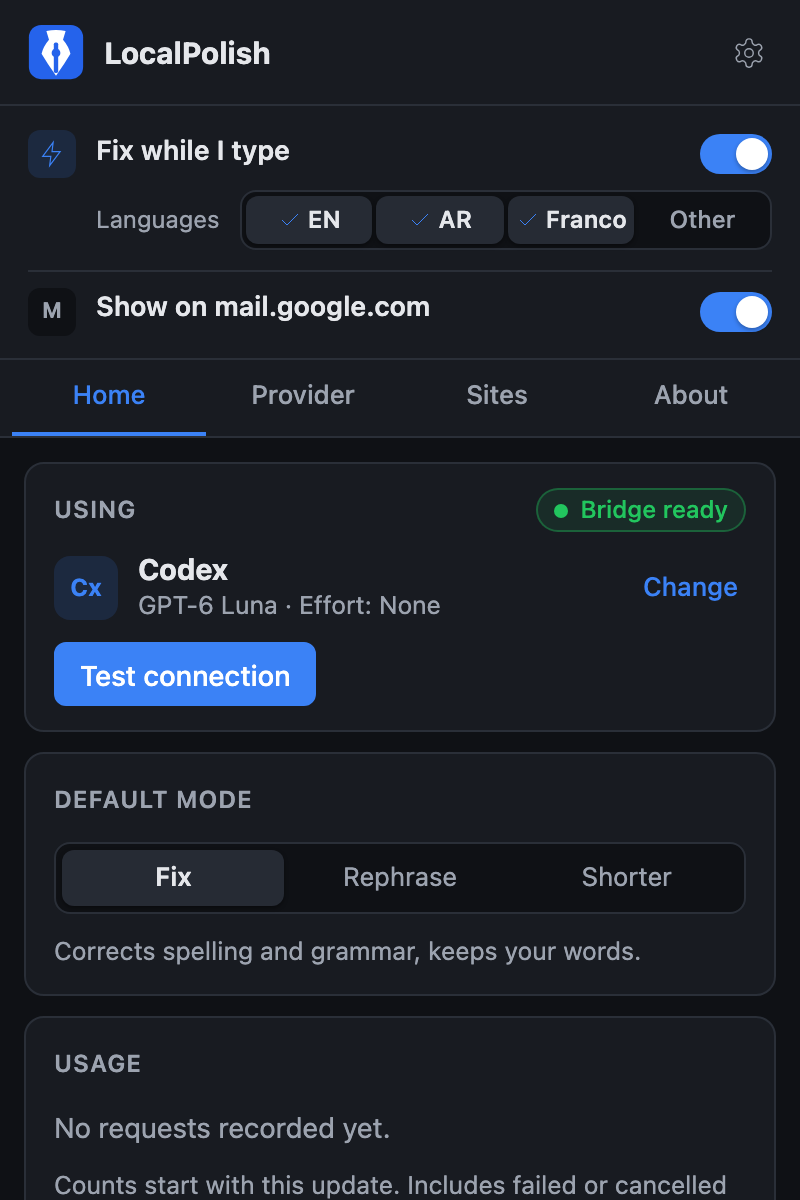
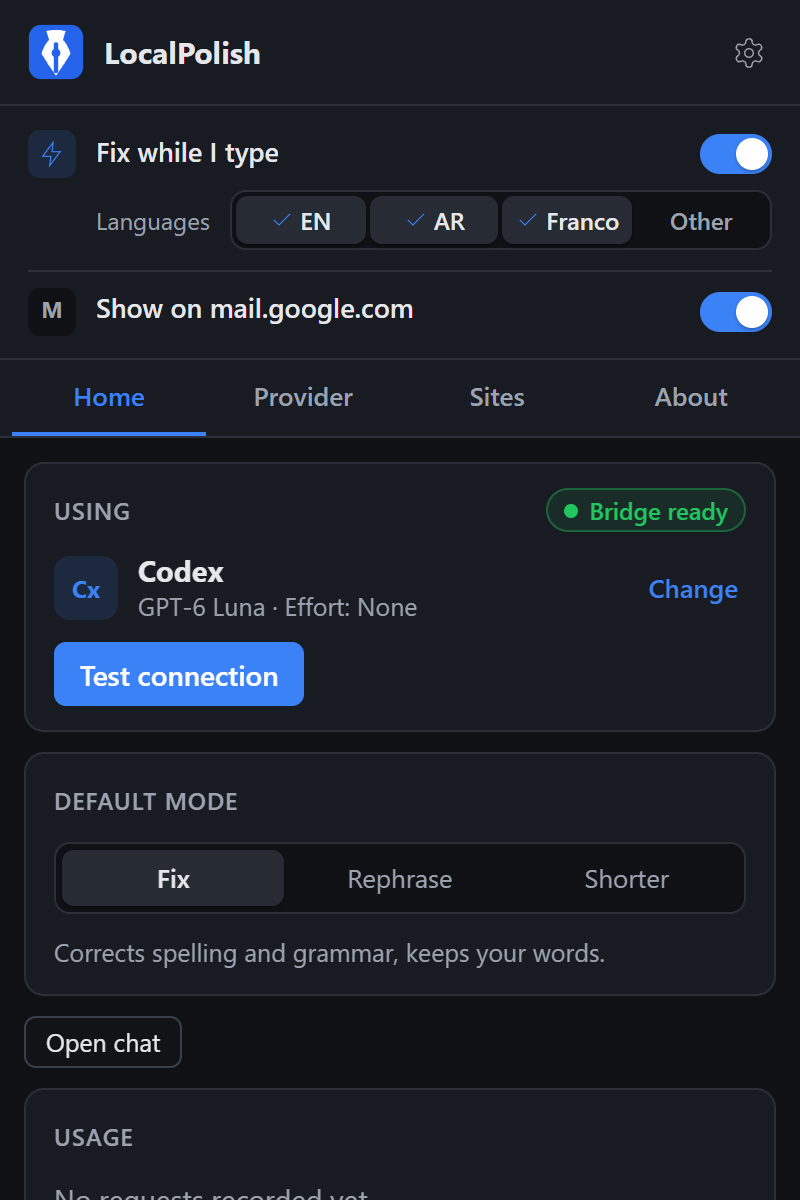
docs: finish chat insertion guide and browser flow

diff --git a/tests/e2e/chat.spec.ts b/tests/e2e/chat.spec.ts
@@ -868,6 +868,44 @@ for (const type of ['password', 'text'] as const) {
   });
 }
 
+test('selects an article, asks the mock provider, then copies and inserts its answer', async ({
+  page,
+  extensionContext,
+  sw,
+  mock,
+}) => {
+  await guardProviders(sw, mock.url);
+  const article = await extensionContext.newPage();
+  try {
+    await openPanel(page);
+    await article.goto('http://localhost:5179/');
+    const field = article.locator('#ta');
+    await field.fill('');
+    await articleSelection(article, 'The fixture shop opens on Monday.');
+    await chatSparkle(article).click();
+    const attachment = page.getByRole('region', { name: 'Attached' });
+    await expect(attachment).toContainText('The fixture shop opens on Monday.');
+    await expect(attachment).toContainText('http://localhost:5179/');
+    expect(mock.requests).toHaveLength(0);
+
+    mock.reply({ chunks: ['A fixture reply.\n', 'Another line.'] });
+    await page.getByRole('button', { name: 'Draft a reply' }).click();
+    await expect(answers(page)).toContainText(/A fixture reply\.\s*Another line\./);
+    await answers(page).getByRole('button', { name: 'Copy', exact: true }).click();
+    await expect(answers(page).getByRole('button', { name: 'Copied' })).toBeVisible();
+    expect(await page.evaluate(() => (window as unknown as { __copied?: string }).__copied)).toBe(
+      'A fixture reply.\nAnother line.',
+    );
+    await insertFromPanel(page, article);
+    await expect(field).toHaveValue('A fixture reply.\nAnother line.');
+    await expect(page.getByRole('status')).toContainText('Inserted into the text field.');
+    expect(await blockedAttempts(sw)).toEqual([]);
+  } finally {
+    await article.close();
+    await releaseProviders(sw);
+  }
+});
+
 async function insertFromPanel(panel: Page, article: Page): Promise<void> {
   // The real panel leaves its page tab active. A test panel tab needs this explicitly.
   await article.bringToFront();

diff --git a/docs/plans/features-1.3-1.4.md b/docs/plans/features-1.3-1.4.md
@@ -1,6 +1,6 @@
 # LocalPolish 1.3.0 and 1.4.0 feature plan
 
-Status: 1.3.0 released on 22 October 2026 (T21a, T21c, T21d, T22a-d, T24). OpenCode moved to the backlog. 1.4.0 started on 22 October 2026 (T23, chat). The version stays 1.3.0 until release day. The owner requested a stop after T23e for a move to another machine.
+Status: 1.3.0 released on 22 October 2026 (T21a, T21c, T21d, T22a-d, T24). OpenCode moved to the backlog. 1.4.0 started on 22 October 2026 (T23, chat). The owner resumed on Windows after T23e; insertion and final chat documentation follow below. The version stays 1.3.0 until release day.
 Baseline: `v1.2.0`, commit `a4ba7fc`.
 Owner answers: the grill session on 22 October 2026. Each decision below is the owner's pick unless it says "default (Claude)".
 
@@ -159,11 +159,12 @@ If the Antigravity spike fails, 1.3.0 ships without it, and Antigravity moves to
   - The worker accepts insertion only from this extension's side panel, validates the window-scoped sequence and original active tab/focused window, and routes only to the bound frame. The content script rejects stale sequences, edited/removed/unsupported fields and navigated frames. `applyReplacement` has an optional current-target check after focus and rich-editor waits. History and New chat drop the live entry association.
   - Review fixed extension-tab sender validation, unclear frame-navigation errors, and field identity generation on insecure HTTP pages. Removed a content test that mocked insertion itself; browser tests exercise the real path. Fourteen new mock-only browser cases cover text/rich/iframe insertion, toolbar iframe insertion, insecure HTTP, edits, removed/disabled/readonly/password fields, navigation, frame navigation, changed tabs and reopened history.
   - Full gates passed on Windows on 22 October 2026: lint, typecheck, 811 unit tests with 9 platform skips, formatting, build, and 244 browser tests. Playwright Chromium still fails before launch with a Windows side-by-side assembly error after reinstall. A temporary external hook ran the browser checks with installed Brave 155.1.97.59 and removed the Mac-only single-process launch flag; repository browser settings are unchanged. The actual 400 px chat page was visually checked after a successful Insert. No real or paid provider was used. Comment Sicko was unavailable because this session has no named reviewer tool. No reusable skill was proposed or created.
-- [ ] **T23g. Chat docs and e2e.** Depends on: T23e, T23f. README, `PRIVACY.md`, and the manual checklist were updated through T23e for the machine handoff. After T23f, document Insert and add the combined selection → chat → mock answer → Copy and Insert test. Recheck all chat docs against the final behavior.
+- [x] **T23g. Chat docs and e2e.** Depends on: T23e, T23f. Brief: [T23g-chat-docs-e2e.md](../briefs/T23g-chat-docs-e2e.md). README, privacy policy, changelog, manual checklist, release checklist, plan index, and machine handoff describe Insert and its refusal paths. The combined browser test selects fake article text, gets a multiline mock answer, checks Copy, and inserts it into an empty textarea.
+  - Documentation and test reviews passed. Local documentation links resolve. Full gates passed on Windows on 22 October 2026: lint, typecheck, 811 unit tests with 9 platform skips, formatting, build, and 245 browser tests through the same temporary Brave hook as T23f. All five toolbar screenshots were regenerated and visually checked, including the new chat button in light and dark modes. The screenshot fixture now supplies a tab and window id so the button is enabled. Comment Sicko remains unavailable. No real provider was called and no reusable skill was created.
 
 ## 1.4.0 release (T25)
 
-- [ ] **T25. Release 1.4.0.** Follow `RELEASING.md`. New toolbar screenshots, because the popup gains a chat button. The owner hand-checks the chat on a long article, with a CLI provider and an API provider.
+- [ ] **T25. Release 1.4.0.** Follow `RELEASING.md`. Toolbar screenshots were refreshed and checked in T23g. The owner still hand-checks native entry points and insertion, and chat on a long article with a CLI provider and an API provider. CI must pass before release.
 
 ## Backlog
 
@@ -179,10 +180,10 @@ If the Antigravity spike fails, 1.3.0 ships without it, and Antigravity moves to
 
 ## Handoff
 
-- Checkpoint: the T23e task commit containing this file, on `main`; parent `7f9d13f` is T23d. Use `git log -1 --oneline` for the exact checkpoint hash. Version remains 1.3.0; no 1.4.0 tag, zip, or release was created.
-- Completed chat tasks: T23a, T23b, T23c, T23d, T23e. Earlier 1.3.0 work remains released at [v1.3.0](https://github.com/ashahinL/localpolish/releases/tag/v1.3.0). OpenCode stays in the backlog.
-- Verification: all full T23e gates passed on 22 October 2026: lint, typecheck, 806 unit tests passed with 2 skipped, formatting, build, and 230 e2e tests. The 77 targeted browser cases passed too, including both password-cache regressions. Code, test, and documentation reviews passed. Local documentation links were checked. Comment Sicko was skipped because this session cannot launch that named reviewer. No real provider or installed CLI was called.
-- Remaining: T23f insertion; T23g's Insert documentation and combined end-to-end test; T25's screenshots, native gesture checks, owner CLI/API checks, and release. The paid language-preservation bench and Windows agy login remain unverified from earlier work.
-- Stop instruction: the owner explicitly requested commit/push/stop after T23e. Do not start T23f in this chat. Resume on the other machine only when the owner asks. Follow [the machine handoff](../handoff-1.4.md).
+- Checkpoint: `b58f7fe` implements T23f; T23g follows in its own commit. Use `git log -1 --oneline` for the exact checkpoint hash. Version remains 1.3.0; no 1.4.0 tag, zip, or release was created.
+- Completed chat tasks: T23a–g. Earlier 1.3.0 work remains released at [v1.3.0](https://github.com/ashahinL/localpolish/releases/tag/v1.3.0). OpenCode stays in the backlog.
+- Verification: full Windows gates passed as recorded in T23g. Code, test, and documentation reviews used the guard skills. Comment Sicko was skipped because this session cannot launch that named reviewer. No real provider or installed CLI was called.
+- Remaining: T25's native gesture checks, owner CLI/API checks, and release. The existing runtime-smoke CI failure needs its missing compiled module restored first. The paid language-preservation bench and Windows agy login remain unverified from earlier work.
+- Resume instruction: the owner asked to pull and continue on Windows. Follow [the machine handoff](../handoff-1.4.md). Stop at release checks that require the owner.
 - Required gates on future code changes: `npm run lint`, `npm run typecheck`, `npm test`, `npx prettier --check .`, `npm run build`, `npm run test:e2e`.
 - Active processes: none. The final gates finished; no delegate, development server, visual browser, or mock server remains running. Temporary Mac harnesses are supplementary and are not needed to resume.

diff --git a/docs/handoff-1.4.md b/docs/handoff-1.4.md
@@ -1,12 +1,14 @@
-# Continue 1.4 on another machine
+# Continue the 1.4 release checks
 
-The owner stopped work after T23e on 22 October 2026. Do not start the next task until asked. The checkpoint is the T23e commit on `main`, with parent `7f9d13f`. Run `git log -1 --oneline` after pulling to identify it. The package is still version 1.3.0. No 1.4.0 release exists.
+The owner resumed work on Windows after T23e on 22 October 2026. T23f adds insertion and T23g finishes the chat documentation and combined browser flow. Run `git log -1 --oneline` after pulling to identify the current checkpoint. The package is still version 1.3.0. No 1.4.0 release exists.
 
 ## What is done
 
-T23a–e are implemented and reviewed: side-panel gesture spike, multi-turn providers, local history, chat UI/runtime, and all four entry points. The source build has Copy. It does not insert chat answers into fields yet. The [feature plan](plans/features-1.3-1.4.md) contains the task details and final gate results.
+T23a–g implement the side-panel gesture spike, multi-turn providers, local history, chat UI/runtime, all four entry points, Copy, and Insert into the remembered field. The [feature plan](plans/features-1.3-1.4.md) contains task details and gate results.
 
 Review fixed password selection caching, failed chat-settings saves, stale settings reads, unsafe Markdown nesting, and repeated scans of unmatched markers. Tests use fake text and mock providers. The final production native context-menu and physical shortcut checks remain in the manual release pass; the disposable spike already proved the gesture routes. T23d's real-panel rendering and saved history were inspected on the Mac.
+
+Insert binds the last focused supported field when a page entry opens chat. It replaces the whole field through `applyReplacement`. A changed or unavailable field, navigated frame, or inactive tab refuses insertion and keeps Copy available. Reopened history and chats started with New chat have no live target. Snapshot text stays inside content-script memory. Session storage holds only field identity and tab/frame ownership alongside the pending attachment.
 
 ## Set up the new machine
 
@@ -17,14 +19,14 @@ Review fixed password selection caching, failed chat-settings saves, stale setti
 
 ## Resume point
 
-Next is **T23f**, insertion into the last text field, using the existing `applyReplacement` path. T23e records an entry's tab/frame under window-scoped session storage; `readChatTarget(sequence)` is the helper prepared for insertion. Recheck active tab, frame, field ownership, and changed or removed targets before writing. Do not infer the target from a rendered data attribute.
+Next is **T25**, the release checks. A pre-existing CI runtime-smoke failure was reproduced: `bench/runtime/compile.mjs` omits `src/background/outputBudget`, so every core probe fails during import. Fix and verify that prerequisite before release. Keep task changes in separate commits.
 
-Then complete **T23g**. The current README, privacy policy, manual checklist, changelog and release instructions already cover T23a–e. Add Insert behavior and the combined selection-to-chat-to-mock-answer-to-Copy-and-Insert browser test. Keep T23g unchecked until that work is complete.
+The README, privacy policy, manual checklist, changelog, release instructions, and plan index now describe Insert. The combined browser test selects fake article text, asks a local mock provider, copies its multiline answer, and inserts it into an empty textarea.
 
-**T25** remains separate. Refresh screenshots, perform native gesture and long-article checks with CLI and API providers, and follow [RELEASING.md](../RELEASING.md). The owner still needs to schedule the paid language-preservation benchmark and Windows Antigravity login check.
+The five toolbar screenshots were refreshed and visually checked in T23g. Perform native gesture and long-article checks with CLI and API providers, and follow [RELEASING.md](../RELEASING.md). The owner still needs to schedule the paid language-preservation benchmark and Windows Antigravity login check. Do not call paid providers to bypass a test failure.
 
 ## Checks and processes
 
-Run lint, typecheck, unit tests, formatting, build, and the full browser suite before committing a future code task. Exact commands and the checkpoint results are in the feature plan. A sandbox may block browser launch; report that and run browser checks from an unrestricted terminal. Do not weaken tests or use paid providers as a workaround.
+Run lint, typecheck, unit tests, formatting, build, and the full browser suite before committing a future code task. Exact commands and checkpoint results are in the feature plan. On this Windows machine, Playwright Chromium 156.0.8078.4 cannot start because Windows cannot resolve its side-by-side assembly, even after a forced reinstall. Local browser checks use installed Brave 155.1.97.59 through a temporary external launch hook, with the Mac-only single-process flag removed. The repository's browser configuration is unchanged. Chromium checks still belong in CI.
 
-No delegate, dev server, browser harness, or mock server should remain running at the checkpoint. Final checkpoint gates passed: lint, typecheck, 806 unit tests passed with 2 skipped, formatting, build, and 230 browser tests. The 77 targeted browser tests and local documentation links also passed. The feature plan records the manual checks still needed. Comment Sicko was unavailable; code, tests, and documentation were reviewed by the orchestrator. No reusable skill was created. The e2e provider guard may be worth extracting into a shared helper when it is used again.
+T23g gates passed: lint, typecheck, 811 unit tests with 9 platform skips, formatting, build, and 245 browser tests through Brave. The panel page was visually checked at 400 px after insertion. All five toolbar screenshots were inspected. Native panel insertion remains a manual release check. Comment Sicko was unavailable; code, tests, and documentation were reviewed by the orchestrator. No reusable skill was proposed or created. Stop all task-owned test servers and browsers before ending work.

diff --git a/docs/manual-checklist.md b/docs/manual-checklist.md
@@ -84,11 +84,13 @@ Use a made-up article and a local mock provider. These checks do not replace the
 - [ ] Turn off **Show chat button on selected page text** in options. The selection sparkle disappears immediately. Explicit chat entry points and manual Fix still work.
 - [ ] Select fake text in a password field after selecting normal text. The shortcut must attach neither the password nor the previous selection.
 - [ ] Ask two questions using the mock provider. Markdown, Copy, Stop and Retry work. Enter sends and Shift+Enter adds a line. The chat provider/model stay independent of Fix. Failed settings saves block requests.
+- [ ] Focus a fixture textarea, select article text, open chat, and ask the mock provider. Copy the completed answer, then use **Insert into field**. The whole remembered field becomes the answer, with line breaks preserved. Repeat with a rich editor and a field inside a frame.
+- [ ] Open chat from a focused field, then change or remove it, make it read-only, or navigate the page. Insert reports an error and Copy stays available. Switching to another tab refuses insertion too. Reopened history and New chat have no live target. Never test on a real draft.
 - [ ] Open saved history, reopen a chat, delete one, then delete all test chats. Local settings and Usage remain. An oversized save leaves its answer visible with an error. No raw HTML executes and no remote image loads automatically.
 - [ ] Open a second browser window. Its chat selection does not reset the first window's conversation. A restricted page without a content script opens plain chat through an explicit entry point.
 - [ ] Inspect the panel at narrow and wide widths in both color schemes. The attachment, error text and composer remain readable.
 
-T23f insertion and the combined selection-to-answer-to-Copy-and-Insert test are pending. Do not mark those complete from the current source build. T23e's new automated browser cases cover the selection and password-cache behavior. The new production context-menu and keyboard paths still need a native manual pass; T23a proved the browser gesture routes in a disposable spike.
+Automated browser cases cover selection, password caches, insertion and refusal paths, and the combined selection-to-answer-to-Copy-and-Insert flow. These tests open the real extension panel page as a tab. The production context-menu, physical keyboard, and native panel insertion paths still need a manual pass; T23a proved the browser gesture routes in a disposable spike. Do not tick the manual checks based only on automated results.
 
 ## Results
 

diff --git a/PRIVACY.md b/PRIVACY.md
@@ -40,6 +40,8 @@ below.
 
 Source builds also use `chrome.storage.session` for pending chat attachments scoped to each browser window, their tab and frame targets, and focused-frame hints. A hint contains a frame id and frame URL, never selected text. Pending entries may contain selected text after an explicit chat entry-point action. These values are kept in the current browser session, separately from saved history. The page keeps its selected-text cache in memory so a shortcut can read it after the panel takes focus. Password input values are excluded. Content scripts cannot read session storage directly.
 
+For Insert, the content script remembers the last focused supported text field. When chat opens, it captures that field's text in content-script memory to detect later changes. Only its opaque field id and frame ownership go into session storage. This target snapshot is not added to the chat attachment or sent to a provider. New chats started in the panel and reopened history do not retain a live insertion target.
+
 ## What it sends, and where
 
 LocalPolish sends text only when you ask for a rewrite (the button, the
@@ -81,7 +83,7 @@ A content script runs on every page so the button, the shortcut and Fix
 while I type work in any text field. It reads a field when you select
 text in it, press the shortcut, or use Fix while I type. While an idle marker
 is shown, it also checks the field to keep the marker current. It changes a
-field only when you press **Accept**, or accept a fix. In source builds it also reads selected page text for chat and caches frame selection locally. The automatic chat sparkle skips blocked sites and editable fields. The context menu, chat shortcut, and toolbar button remain available when requested directly, including on blocked sites. Chat cannot insert answers into fields yet.
+field only when you press **Accept**, accept a fix, or choose **Insert into field** on a chat answer. In source builds it also reads selected page text for chat and caches frame selection locally. The automatic chat sparkle skips blocked sites and editable fields. The context menu, chat shortcut, and toolbar button remain available when requested directly, including on blocked sites. Insert replaces the whole field remembered when chat opened. It checks the original active tab, window, frame, and unchanged field before writing. If the target is unavailable or changed, use Copy to paste the answer yourself.
 
 ## What it does not do
 

diff --git a/README.md b/README.md
@@ -29,7 +29,7 @@
   </tr>
 </table>
 
-<p align="center">The released 1.3.0 toolbar popup. Source builds also include the unreleased chat described below. <code>npm run shots</code> refreshes these images before release.</p>
+<p align="center">The current source toolbar popup, including the unreleased chat button. The latest download is still 1.3.0. <code>npm run shots</code> refreshes these images before release.</p>
 
 ## What it does
 
@@ -89,7 +89,7 @@
 
 ## Chat in source builds, unreleased
 
-The latest downloadable release is still 1.3.0. The current source build adds an assistant in Chrome's side panel. Inserting a chat answer into a field is not implemented yet.
+The latest downloadable release is still 1.3.0. The current source build adds an assistant in Chrome's side panel.
 
 Open chat in any of these ways:
 
@@ -99,6 +99,8 @@ Open chat in any of these ways:
 - Click **Open chat** on the toolbar popup's Home tab. This always starts without an attachment.
 
 The panel shows the selected text, title, and URL before you ask. Opening it sends nothing to an AI. Choose Summarize, Explain, Translate, or Draft a reply to send immediately, or type a question. Enter sends, Shift+Enter adds a line, and Stop cancels the answer. Copy copies a completed answer. History lets you reopen or delete chats, or delete all of them.
+
+To put an answer into a page, focus the field before opening chat. **Insert into field** replaces that whole field with the completed answer, including any Markdown as plain text. It uses the same editor-writing path as Accept, including rich editors and fields in frames. Keep the original tab active. If the field changes, disappears, becomes read-only, or the page navigates, insertion refuses and leaves Copy available. After an insertion, reopen chat from the page to bind the field again. New chats started inside the panel and reopened history have no live field target.
 
 Chat has its own provider and model. They start as copies of Fix's choices, then save independently. API keys, endpoints, temperature, and CLI effort remain shared. Every turn sends the conversation so far and its attachment to the chat provider. Chat attempts appear in Usage.
 

diff --git a/CHANGELOG.md b/CHANGELOG.md
@@ -9,6 +9,7 @@ finished but not released yet waits under Unreleased. How a version ships:
 **New**
 
 - Assistant chat in Chrome's side panel, with streamed Markdown, quick asks, Copy, an independent provider and model, and local history. History keeps up to 50 chats for 30 days, with a 128 KiB save limit per chat.
+- **Insert into field** replaces the field focused before chat opened, through the existing Accept path. Changed, removed, navigated, or inactive targets are refused; Copy remains available. Saved history has no live insertion target.
 - Open chat from a page-text selection sparkle, the selection context menu, `Alt+Shift+L` or macOS `Option+Shift+L`, or **Open chat** in the toolbar. The panel shows its attachment before anything is sent to an AI.
 - An option to turn off the selection sparkle. Explicit chat entry points work on blocked sites.
 - Multi-turn messages through every provider. CLI chat turns can run for 180 seconds; Fix keeps its 60-second timeout. Bridge users need the current repo code through `git pull --rebase`.
@@ -20,7 +21,7 @@ finished but not released yet waits under Unreleased. How a version ships:
 
 **For contributors**
 
-- T23a–e are the current checkpoint. Answer insertion, the remaining combined end-to-end check, and the 1.4.0 release are still pending. Version remains 1.3.0. See [the machine handoff](docs/handoff-1.4.md).
+- T23a–g cover chat, entry points, insertion, documentation, and the combined selection-to-answer-to-Copy-and-Insert browser check. The 1.4.0 release still needs the T25 checks. Version remains 1.3.0. See [the machine handoff](docs/handoff-1.4.md).
 
 ## 1.3.0 — 2026-10-22
 

diff --git a/docs/briefs/T23g-chat-docs-e2e.md b/docs/briefs/T23g-chat-docs-e2e.md
@@ -1,0 +1,11 @@
+# T23g. Chat documentation and combined browser check
+
+Depends on T23e and T23f. Keep the package at 1.3.0 until the release checks pass.
+
+1. Check the final Insert behavior against its content-script target tracking and worker validation.
+2. Update README, privacy policy, changelog, manual checklist, release checklist, plan index, and machine handoff. Explain which field Insert replaces, when it refuses, and how to use Copy after a refusal. Keep native gesture and real-provider checks open until performed.
+3. Add a browser test using fake article text and the local mock OpenAI provider. Focus a fixture field, select article text, open chat, ask a question, check the attachment and mock answer, then Copy and Insert. Assert the clipboard text and final field text.
+4. Refresh the toolbar screenshots and check all five images. Give the screenshot fixture a tab and window id so Open chat renders enabled. Run lint, typecheck, unit tests, formatting, build, and the full browser suite. Inspect the changed UI in a browser. Record any machine limitation without marking unrun checks as passed.
+5. Review documentation against the source and review the combined test. Update the plan and commit this task separately from T23f.
+
+Do not call an installed CLI or a paid provider. Do not send or post a page draft. T25's release checks remain separate.

diff --git a/RELEASING.md b/RELEASING.md
@@ -57,7 +57,7 @@ Nothing else gets one.
    through `docs/manual-checklist.md` for anything this version changed, and
    at least Fix, Rephrase and Accept in one plain textarea and one rich
    editor, with one CLI provider and one API provider. Check the toolbar
-   popup's four tabs and both switches. For a chat release, also follow the assistant-chat section of the manual checklist: all four real entry points, the selected-text attachment, history deletion, window isolation, Copy, and Insert after T23f is complete. The owner checks a long article with one CLI and one API provider. Do not release 1.4.0 before the remaining T23f, T23g and T25 checks are complete.
+   popup's four tabs and both switches. For a chat release, also follow the assistant-chat section of the manual checklist: all four real entry points, the selected-text attachment, history deletion, window isolation, Copy, and Insert with its refusal paths. The owner checks a long article with one CLI and one API provider. Do not release 1.4.0 before T25's manual checks and CI gates pass.
 3. **Images.** If the toolbar popup looks different, run `npm run shots` and
    open every image in `docs/screenshots` before committing it.
 4. **Set the version** in `package.json` and `package-lock.json`:

diff --git a/docs/plan.md b/docs/plan.md
@@ -57,7 +57,7 @@ The original duplicated interfaces and CLI command examples have been replaced b
 - [History](../src/core/chatHistory.ts): local saved chats, capped at 50 records, 30 days since update, and 128 KiB per record.
 - [Bridge command builders](../bridge/lib.mjs) and [host](../bridge/host.mjs): four CLI names including `agy`, stdin-only prompts, provider lockdown, and cleanup. Native rewrite requests retain `system` and `user` fields, with optional `timeoutMs` up to 180000. The omitted timeout remains 60000.
 
-The current chat behavior and limits are documented in the [README](../README.md#chat-in-source-builds-unreleased) and [privacy policy](../PRIVACY.md). Insertion is still pending in T23f. No 1.4.0 release has been made.
+The current chat behavior and limits are documented in the [README](../README.md#chat-in-source-builds-unreleased) and [privacy policy](../PRIVACY.md). T23f adds whole-field insertion with checked tab, frame, and field ownership. No 1.4.0 release has been made.
 
 ## Tasks
 
